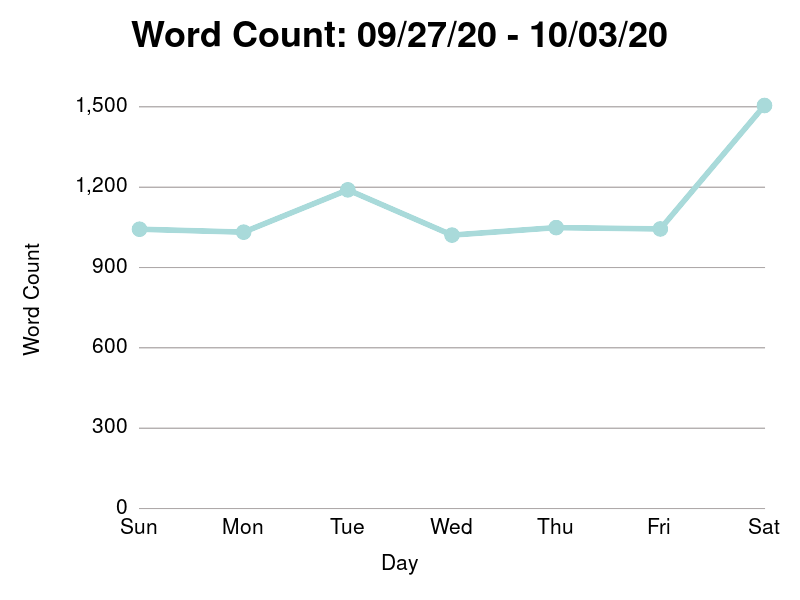
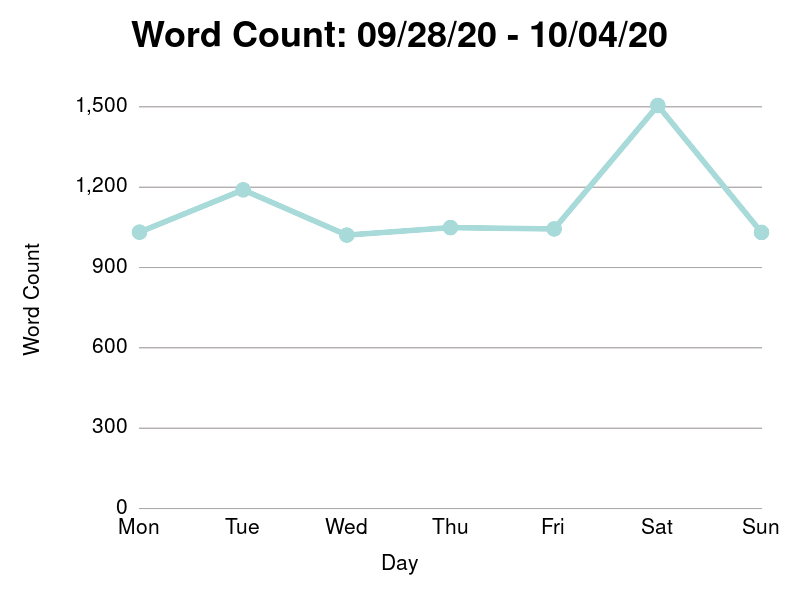
Post

diff --git a/entries/2020-10-04.md b/entries/2020-10-04.md
@@ -1,0 +1,122 @@
+---
+title: my nas, football, and strange food combinations
+---
+
+Dear Journal,
+
+Happy Sunday, everyone.  How is everyone's weekend going?  The scene
+is pretty mellow around our house today.  We planned on watching the
+Bears game at noon today, but the NFL postboned the game to later this
+afternoon because of some troubling COVID developments on other teams.
+As a result, we suddenly inherited a lot of extra time in the middle
+of the day that we didn't plan for, and after finishing breakfast and
+lunch, watching church, and cleaning the kitchen, we had no choice but
+to just hang around the house and do our own thing.
+
+Marissa ran some errands.  Rodney played quietly in his room.  I
+continued to kick the tires and aimlessly piddle around with my fancy
+new Synology box.  For the non-nerds reading, my "Synology" box is
+that little white computer I bought for my server rack.
+
+After going through all the trouble through building a file server
+from scratch, this new synology box was embarassingly simple.  No
+formatting disks or downloading images.  No dragging tangled HDMI
+cabled out of my closet and borrowing a computer monitor from
+somewhere else in the house.  I finished assembly at the kitchen
+table, and after only plugging it into the wall, it was ready to go.
+
+I couldn't have timed the upgrade any better if I tried.  While
+scripting out the slow and gradual migration process, I noticed that
+one of the hard drives in my old box failed, and the whole library was
+limping by in a degraded state.  No data lost, thankfully.  But it
+made me that much more grateful to get starting migrating the data to
+better, safer hardware.
+
+And if you thought the synology box looked cool in the pictures, you
+should see how it looks in the dark.  With the bedroom lights off, it
+makes for a serious light show - small flickering, blue dots, a green
+light for the status, and a deep orange colored glowing power button.
+
+"Oh, there are even some settings that will let me turn it off, or
+just turn it off at night, if you want," I said to Marissa, fixated on
+my computer screen.  "Do the lights bother you?"
+
+"That corner of our room has had blinking stuff for so long, we're
+well past the point of it bothering me," she laughed.
+
+I have some big upgrades planned.  After the data migration completes,
+I'll gleefully retire the cheap stack of unsighly USB drives that
+powers the old system, then I'll set my sights on cleaning up the
+raspberry pi farm.  My pi farm was one of those ideas that looked good
+on paper, but when planning out the shelf I didn't account for how
+much space the ethernet cables and power cables would take up, and
+that just about cancelled out the _cool_ factor.
+
+_Sip_.  We had a wonderful weekend.  On Friday, it got too cold to
+walk to the biergarten, so we instead opted for a much shorter,
+chillier walk across the street to the Malthouse.  After setting down
+our things, I walked back across the street with Rodney to grab a
+blanket from our house.  Becky, one of our favorite bartenders, came
+outside to greet us at a cautious distance.
+
+"WELL HELLO THERE!" she said to Miles, her eyes widening.  Miles cooed
+and giggled.
+
+"I think he likes your voice, Becky," said Marissa.  "He says he
+doesn't recognize that one."
+
+"YEAH?  DO YOU LIKE MY VOICE?" she asked, still pitched up.  "I USE
+THIS ONE FOR PUPPIES AND BABIES.  AND SOMETIMES RUDE CUSTOMERS."
+
+Keeping an eye on her bar, Becky hung outside with us for a few
+minutes.  We chatted about Madison, kids, and quarantine.
+
+"We were just talking about how nobody gets to see our baby," said
+Marissa.  "We're actually kind of craving the attention."
+
+"Well, if you ask me, I think these _covid_ babies are going to turn
+out OK," said Becky.  "The family huddled together at home, just
+eating good food and staying warm.  That's how we're supposed to raise
+kids, I think."
+
+We ordered a pizza, and by the time it arrived we were starting to
+think of heading home for the evening.  Split between eating quickly
+before leaving and waiting until we got home, we just decided to eat
+it on the walk over.  After handing me his pizza crust and brushing
+the crumbs off his hands, Rodney ran ahead of our pack.
+
+On Saturday morning, I made breakfast, cooking what we started to
+refer to as _Dutch Huevos Rancheros_.  Bacon, onions, black beans, a
+diced tomato, and by the time I realized we didn't have any tortillas
+in the house, I was already in too deep.
+
+"So I just fried some puff pastry," I laughed.  "That's kind of our
+functional tortilla in this situation."
+
+"I think you might be onto something," said Marissa.
+
+My parents also visisted on Saturday.  We had a brief, cozy visit on
+our back deck, and they left glad tidings of frozen smoked pork and,
+courtesy of my sister and her husband, a bottle of aged, spicy
+tequila.
+
+We've been getting lots of mileage out of the smoked pork from my
+dad.  Last night, I braised it in chicken stock and soy sauce.  This
+afternoon, with Rodney's help, I heated it up in apple cider vinegar
+and the rest of a bottle of barbecue sauce. 
+
+There's not much else left on the agenda for this weekend.  Our
+project board is in good shape.  We've got a long afternoon football
+game to enjoy.  Later this evening, I'm going to see if I can scrape
+together enough food to make a respectable batch of chicken and wild
+rice soup.  For starters, we don't even have wild rice - so things
+will get ineresting.
+
+I think if this weekend had a theme, it would have to be strange food
+combinations.  Somehow, with our fridge still full, we've completely
+depleted our most reliable ingredients, and we've had to kind of wing
+things a bit.  Asian braised smoked pork.  Dutch Huevos Rancheros.  I
+suppose it keeps things interesting.
+
+Thanks for stopping by today.  Hope you're eating well, and taking the
+rest of the weekend to relax.  See you all tomorrow.
